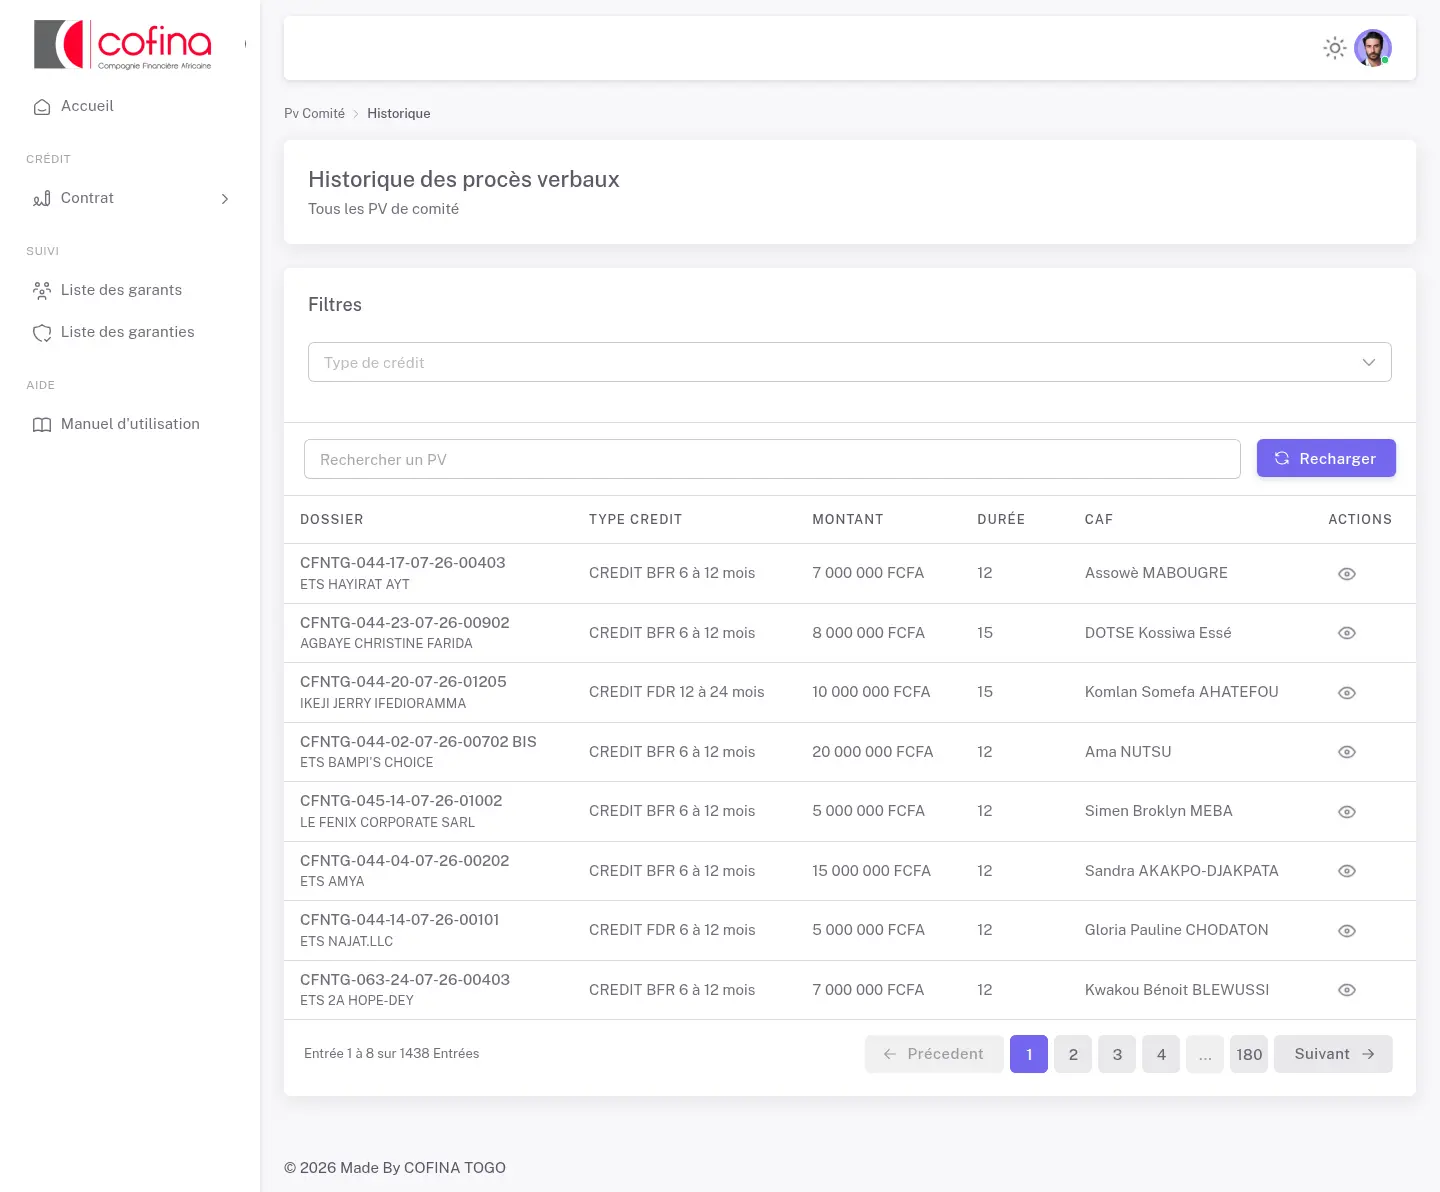
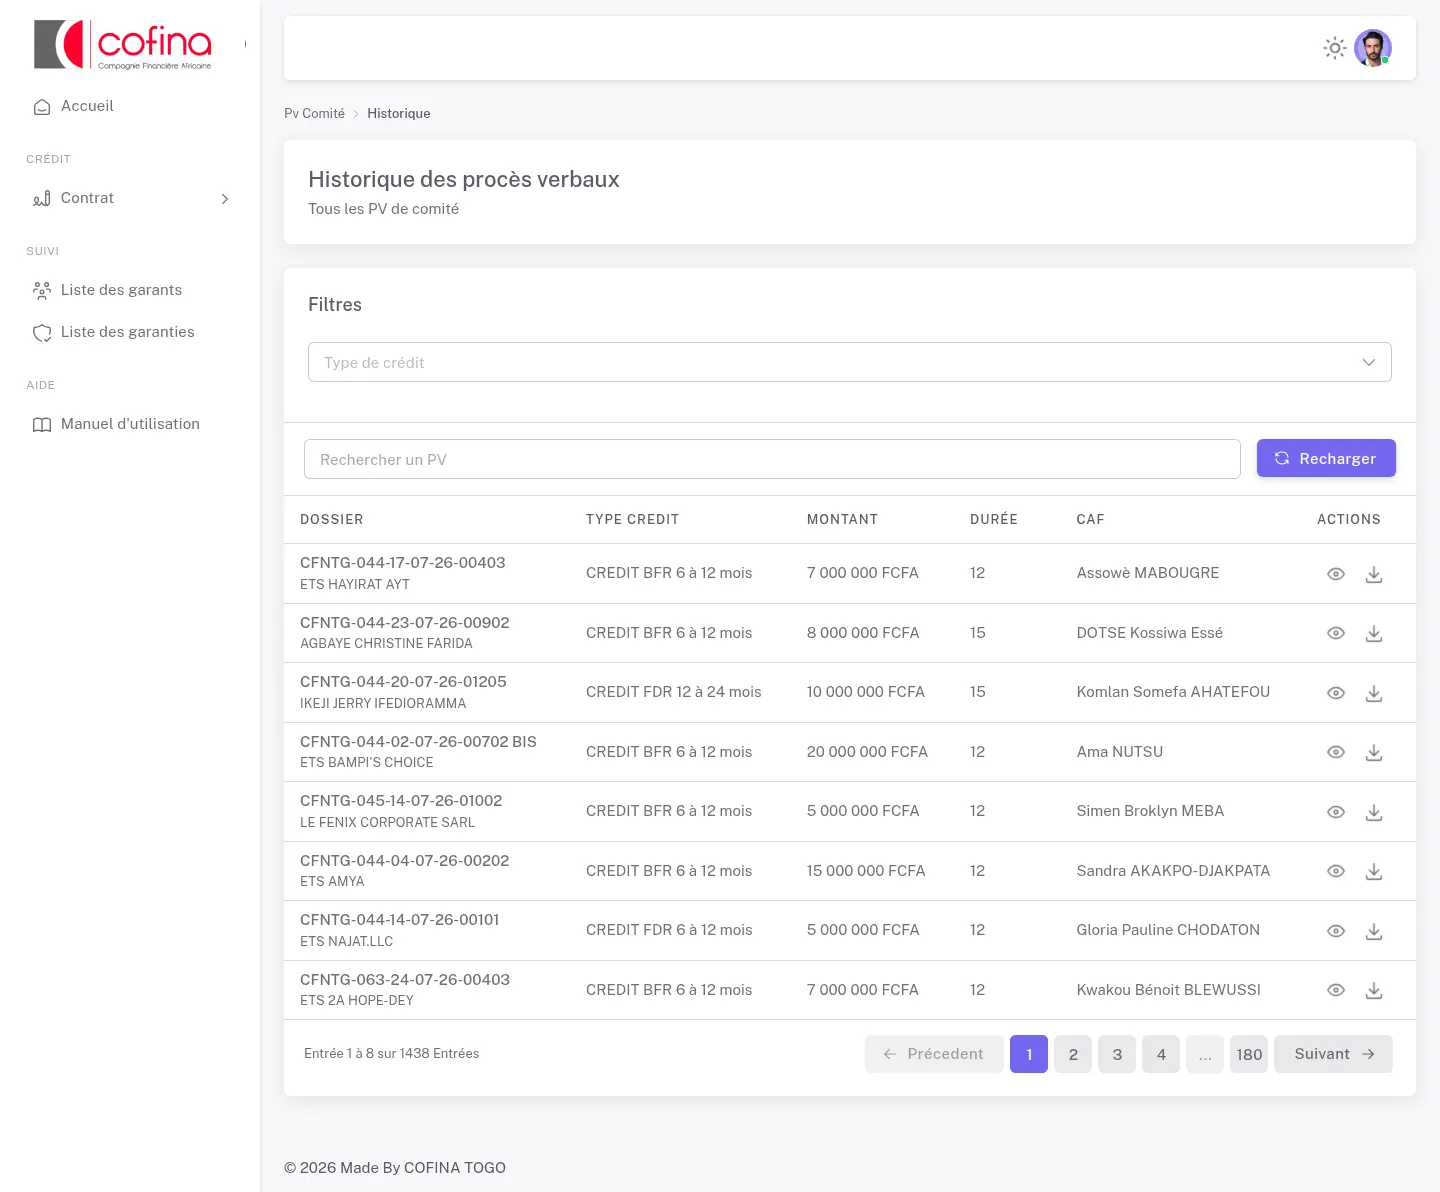
docs(manuels): manuel du Juridique complété (fiche PV, historique des notifications)

diff --git a/resources/manuels/juridique/manuel.html b/resources/manuels/juridique/manuel.html
@@ -265,10 +265,13 @@ ol.circuit li.vous::before{color:var(--accent-encre);font-weight:700}
   <p class="chemin">Menu <b>Pv Comité</b></p>
   <p>Le PV de comité reprend la décision d'octroi : client, montant, durée, périodicité, taux, frais, garanties à recueillir et réserves de l'analyste. Son statut (En attente, Validé, Rejeté) et son niveau de validation (Analyste Crédit, Admin Crédit, Head Crédit, MD) s'affichent dans la liste et sur la fiche.</p>
   <ul>
+    <li><b>Sans contrat</b> : les PV en cours de validation, et les PV validés qui attendent leur contrat ou leur notification hypothécaire. Les filtres trient par type de crédit, statut et niveau de validation.</li>
     <li><b>Historique</b> : tous les PV.</li>
     <li>Le PV se télécharge depuis sa fiche ou son menu d'actions.</li>
   </ul>
+  <figure class="moyenne"><button class="zoom" type="button" aria-label="Agrandir la capture"><img src="img/10-pv-liste.webp" alt="PV sans contrat" loading="lazy" width="1440" height="900"></button><figcaption><b>PV sans contrat.</b></figcaption></figure>
   <figure><button class="zoom" type="button" aria-label="Agrandir la capture"><img src="img/10-pv-historique.webp" alt="Historique des PV" loading="lazy" width="1440" height="1192"></button><figcaption><b>Historique des PV.</b></figcaption></figure>
+  <figure class="haute"><button class="zoom" type="button" aria-label="Agrandir la capture"><img src="img/10-pv-detail.webp" alt="Fiche d'un PV" loading="lazy" width="1440" height="1515"></button><figcaption><b>Fiche d'un PV.</b></figcaption></figure>
 </section>
 
 <section class="chapitre" id="hypothecaire">
@@ -278,10 +281,12 @@ ol.circuit li.vous::before{color:var(--accent-encre);font-weight:700}
   <ul>
     <li><b>Sans Validation Head</b> : les notifications qui attendent la validation du Head Crédit.</li>
     <li><b>Sans Contrat notarié</b> : les notifications validées dont le contrat notarié n'est pas encore chargé.</li>
+    <li><b>Historique</b> : toutes les notifications.</li>
     <li>Le contrat notarié se charge depuis le menu d'actions de la notification.</li>
   </ul>
   <figure class="moyenne"><button class="zoom" type="button" aria-label="Agrandir la capture"><img src="img/30-notifications-sans-validation.webp" alt="Notifications sans validation head" loading="lazy" width="1440" height="900"></button><figcaption><b>Notifications sans validation head.</b></figcaption></figure>
   <figure class="haute"><button class="zoom" type="button" aria-label="Agrandir la capture"><img src="img/30-notifications-sans-contrat-notarie.webp" alt="Notifications sans contrat notarié" loading="lazy" width="1440" height="1410"></button><figcaption><b>Notifications sans contrat notarié.</b></figcaption></figure>
+  <figure class="moyenne"><button class="zoom" type="button" aria-label="Agrandir la capture"><img src="img/30-notifications-historique.webp" alt="Historique des notifications" loading="lazy" width="1440" height="900"></button><figcaption><b>Historique des notifications.</b></figcaption></figure>
   <figure class="haute"><button class="zoom" type="button" aria-label="Agrandir la capture"><img src="img/30-notification-detail.webp" alt="Fiche d'une notification" loading="lazy" width="1440" height="1778"></button><figcaption><b>Fiche d'une notification.</b></figcaption></figure>
 </section>
 
